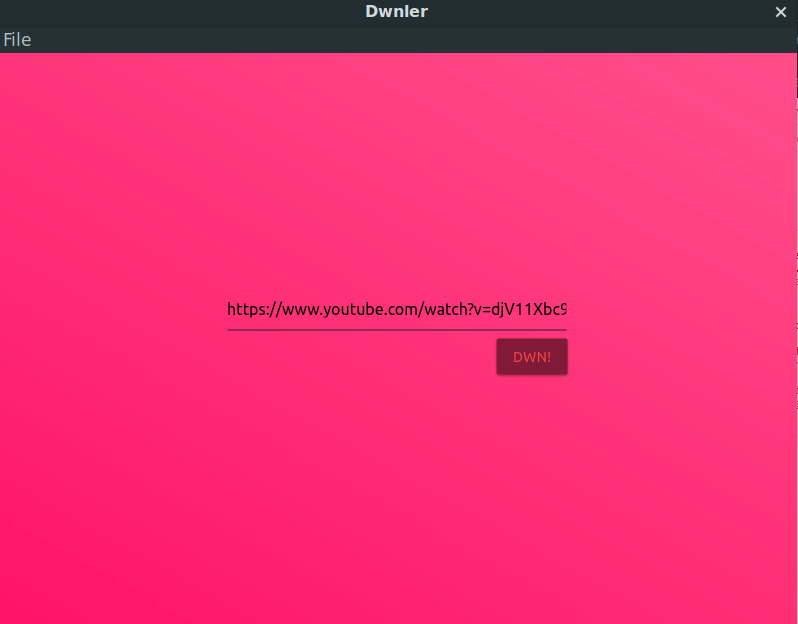
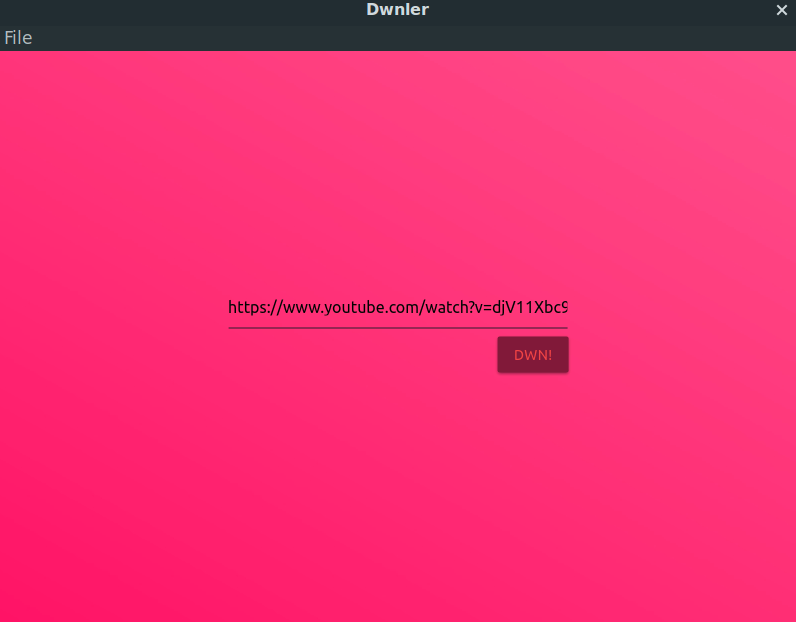
Updating readme :bulb:

diff --git a/README.md b/README.md
@@ -1,2 +1,4 @@
-# dwnler
+# Dwnler
 Electron application to convert and download music as MP3.
+
+![dwnler](screenshot.png)
